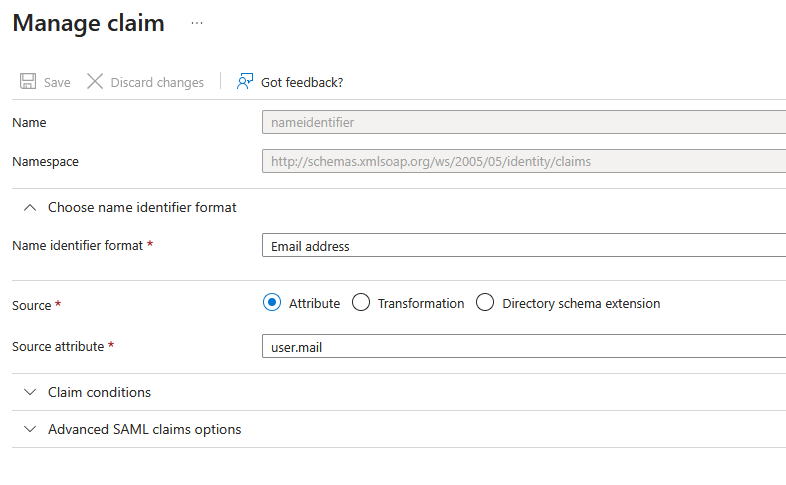
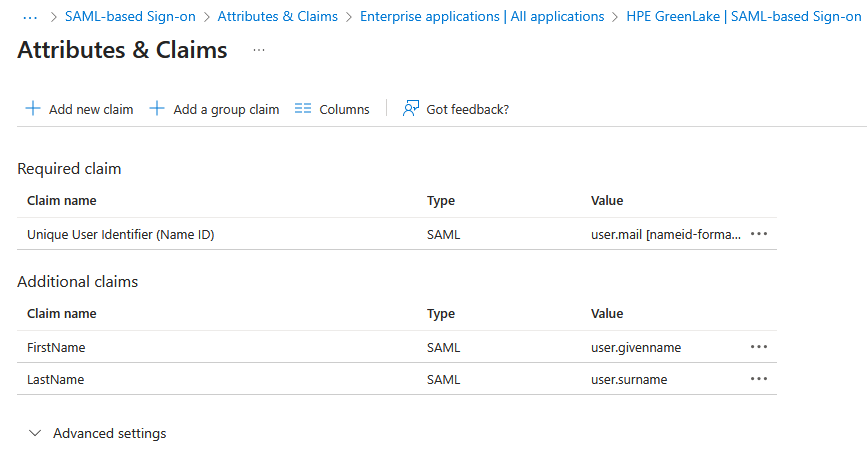
update blog

diff --git a/_posts/2025-11-07-Configuring-SAML-SSO-with-HPE-GreenLake-and-Passwordless-Authentication-for-HPECOMCmdlets.md b/_posts/2025-11-07-Configuring-SAML-SSO-with-HPE-GreenLake-and-Passwordless-Authentication-for-HPECOMCmdlets.md
@@ -287,27 +287,47 @@ With the security group created, you can now proceed to register the HPE GreenLa
 
     [![]( {{ site.baseurl }}/assets/images/SAML-SSO/SAML-SSO-14.png)]( {{ site.baseurl }}/assets/images/SAML-SSO/SAML-SSO-14.png){:class="img-100pct"}{: data-lightbox="gallery"} 
 
-- Modify **Unique User Identifier (Name ID)**. In the Source attribute dropdown, select **Email** (this maps to the user's user.mail attribute from Entra ID).
+    > **Important**: Entra ID creates default SAML claims when you add a new enterprise application. Before configuring the required attributes, you must **remove all default claims** except for the **Unique User Identifier (Name ID)**. These typically include claims with URIs like `http://schemas.xmlsoap.org/ws/2005/05/identity/claims/givenname`, `emailaddress`, `name`, etc. Click the **...** menu next to each unwanted claim and select **Delete** to remove them.
+    >
+    >{: .small-space}
+    >
+    > [![]( {{ site.baseurl }}/assets/images/SAML-SSO/SAML-SSO-14a.png)]( {{ site.baseurl }}/assets/images/SAML-SSO/SAML-SSO-14a.png){:class="img-100pct"}{: data-lightbox="gallery"} 
 
-    [![]( {{ site.baseurl }}/assets/images/SAML-SSO/SAML-SSO-15.png)]( {{ site.baseurl }}/assets/images/SAML-SSO/SAML-SSO-15.png){:class="img-600"}{: data-lightbox="gallery"} 
+   For the HPE GreenLake integration, the following SAML attributes must be defined:
 
-- Modify **http://schemas.xmlsoap.org/ws/2005/05/identity/claims/givenname** and set the source attribute to **user.givenname**
+    | Name | Value |
+    |------|-------|
+    | **Unique User Identifier (Name ID)** | `user.email` |
+    | **FirstName** | `user.firstName` |
+    | **LastName** | `user.lastName` |
+    | **hpe_ccs_attribute** | See configuration below |
 
-    [![]( {{ site.baseurl }}/assets/images/SAML-SSO/SAML-SSO-16.png)]( {{ site.baseurl }}/assets/images/SAML-SSO/SAML-SSO-16.png){:class="img-600"}{: data-lightbox="gallery"} 
+    > **Important**: Attribute names (FirstName, LastName, hpe_ccs_attribute) are case-sensitive and must match exactly as shown. The **Unique User Identifier (Name ID)** should already be configured with `user.email` by default - verify this setting but do not modify it.
 
-- Modify **http://schemas.xmlsoap.org/ws/2005/05/identity/claims/surname** and set the source attribute to **user.surname**
+    These SAML attributes define how user identity information is transmitted from Entra ID to HPE GreenLake during authentication:
 
-    [![]( {{ site.baseurl }}/assets/images/SAML-SSO/SAML-SSO-17.png)]( {{ site.baseurl }}/assets/images/SAML-SSO/SAML-SSO-17.png){:class="img-600"}{: data-lightbox="gallery"} 
+    - **Unique User Identifier (Name ID)**: Maps the user's email address to the SAML NameID, serving as the primary identifier for authentication
+    - **FirstName**: Provides the user's given name for profile information
+    - **LastName**: Provides the user's family name for profile information
+    - **hpe_ccs_attribute**: (Optional) Enables role-based access control when configured
 
-- Add a claim named **FirstName** (careful it's case sensitive) with the attribute **user.givenname** then click **Save** 
+-  Click on the **Unique User Identifier (Name ID)** claim. Verify that **Source attribute** is set to `user.mail`. If it shows a different value, update it to `user.mail` and click **Save**.
 
-    [![]( {{ site.baseurl }}/assets/images/SAML-SSO/SAML-SSO-18.png)]( {{ site.baseurl }}/assets/images/SAML-SSO/SAML-SSO-18.png){:class="img-600"}{: data-lightbox="gallery"} 
+    [![]( {{ site.baseurl }}/assets/images/SAML-SSO/SAML-SSO-15.png)]( {{ site.baseurl }}/assets/images/SAML-SSO/SAML-SSO-15.png){:class="img-600"}{: data-lightbox="gallery"}
 
-- Add a claim named **LastName** (careful it's case sensitive) with the attribute **user.surname**
+-  Add a claim named **FirstName** (case-sensitive) with **Source attribute** set to `user.givenname`, then click **Save**
 
-    [![]( {{ site.baseurl }}/assets/images/SAML-SSO/SAML-SSO-19.png)]( {{ site.baseurl }}/assets/images/SAML-SSO/SAML-SSO-19.png){:class="img-600"}{: data-lightbox="gallery"} 
+     [![]( {{ site.baseurl }}/assets/images/SAML-SSO/SAML-SSO-18.png)]( {{ site.baseurl }}/assets/images/SAML-SSO/SAML-SSO-18.png){:class="img-600"}{: data-lightbox="gallery"}
 
-    > **Note**: These SAML claims define how user identity information is transmitted from Entra ID to HPE GreenLake during authentication. Proper configuration ensures users are correctly identified and authorized when accessing the platform.
+-  Add a claim named **LastName** (case-sensitive) with **Source attribute** set to `user.surname`, then click **Save**
+
+     [![]( {{ site.baseurl }}/assets/images/SAML-SSO/SAML-SSO-19.png)]( {{ site.baseurl }}/assets/images/SAML-SSO/SAML-SSO-19.png){:class="img-600"}{: data-lightbox="gallery"}
+
+    > **Verification**: At this point, your **Attributes & Claims** section should contain only the **Unique User Identifier (Name ID)**, **FirstName**, and **LastName** claims. If you see any other default claims (such as those with `http://schemas.xmlsoap.org/` URIs), delete them now before proceeding.
+    >
+    >{: .small-space}
+    >
+    > [![]( {{ site.baseurl }}/assets/images/SAML-SSO/SAML-SSO-15.png)]( {{ site.baseurl }}/assets/images/SAML-SSO/SAML-SSO-15.png){:class="img-700"}{: data-lightbox="gallery"}
 
 -  <a id="hpe_ccs_settings"></a>Add a claim named **hpe_ccs_attribute** (case-sensitive). This attribute enables role-based access control (RBAC) by mapping your Entra ID group to specific HPE GreenLake roles and permissions. 
 
@@ -316,95 +336,97 @@ With the security group created, you can now proceed to register the HPE GreenLa
     Configure the claim with the following settings:
     
     - **Name**: `hpe_ccs_attribute`
-    - **User type**: `Any`
-    - **Scoped Groups**: Select the security group created earlier (i.e. *HPE GreenLake*)
-    - **Source**: `Attribute`
-    - **Value**: Enter your constructed attribute value (see below)
+    - In the **Claim conditions** section, enter:
+       - **User type**: `Any`
+       - **Scoped Groups**: Select the security group created earlier (i.e. *HPE GreenLake*)
+       - **Source**: `Attribute`
+       - **Value**: Enter your constructed attribute value (see below)
 
-        The `hpe_ccs_attribute` value follows a specific format that defines workspace access, application permissions, and user roles. For detailed instructions on constructing this attribute value, including the required syntax and examples, refer to [HPE GreenLake cloud SAML attribute for session-based authentication](https://support.hpe.com/hpesc/public/docDisplay?docId=a00120892en_us&page=GUID-237A2D36-D5D3-4514-915F-42B2ACDF825C.html#ariaid-title1).
+    The `hpe_ccs_attribute` value follows a specific format that defines workspace access, application permissions, and user roles. For detailed instructions on constructing this attribute value, including the required syntax and examples, refer to [HPE GreenLake cloud SAML attribute for session-based authentication](https://support.hpe.com/hpesc/public/docDisplay?docId=a00120892en_us&page=GUID-237A2D36-D5D3-4514-915F-42B2ACDF825C.html#ariaid-title1).
 
-        [![]( {{ site.baseurl }}/assets/images/SAML-SSO/SAML-SSO-20.png)]( {{ site.baseurl }}/assets/images/SAML-SSO/SAML-SSO-20.png){:class="img-100pct"}{: data-lightbox="gallery"}
+    [![]( {{ site.baseurl }}/assets/images/SAML-SSO/SAML-SSO-20.png)]( {{ site.baseurl }}/assets/images/SAML-SSO/SAML-SSO-20.png){:class="img-100pct"}{: data-lightbox="gallery"}
 
-        The `hpe_ccs_attribute` value follows this format:
+    The `hpe_ccs_attribute` value follows this format:
 
-        ```yaml
-        version_1#<workspace_id>:<app_id_1>:<role_1>:ALL_SCOPES:<app_id_2>:<role_2>:ALL_SCOPES
-        ```
+    ```yaml
+    version_1#<workspace_id>:<app_id_1>:<role_1>:ALL_SCOPES:<app_id_2>:<role_2>:ALL_SCOPES
+    ```
 
-        - **Example 1** (single workspace, single service):
+    - **Example 1** (single workspace, single service):
 
-            ```yaml
-            version_1#40aab0a48e5811f0bc31ca04dee87a18:00000000-0000-0000-0000-000000000000:Workspace Observer:ALL_SCOPES
-            ```
+      ```yaml
+      version_1#40aab0a48e5811f0bc31ca04dee87a18:00000000-0000-0000-0000-000000000000:Workspace Observer:ALL_SCOPES
+      ```
 
-            This example grants:
-            - Observer access to the HPE GreenLake workspace
+      This example grants:
+      - Observer access to the HPE GreenLake workspace
 
-        - **Example2** (single workspace, two services: HPE GreenLake and COM):
+    - **Example2** (single workspace, two services: HPE GreenLake and COM):
 
-            ```yaml 
-            version_1#40aab0a48e5811f0bc31ca04dee87a18:00000000-0000-0000-0000-000000000000:Workspace Administrator:ALL_SCOPES:b394fa01-8858-4d73-8818-eadaf12eaf37:Compute Ops Management administrator:ALL_SCOPES
-            ```
+      ```yaml 
+      version_1#40aab0a48e5811f0bc31ca04dee87a18:00000000-0000-0000-0000-000000000000:Workspace Administrator:ALL_SCOPES:b394fa01-8858-4d73-8818-eadaf12eaf37:Compute Ops Management administrator:ALL_SCOPES
+      ```
 
-            This example grants:
-            - Administrator access to the HPE GreenLake workspace
-            - Administrator access to Compute Ops Management 
+      This example grants:
+      - Administrator access to the HPE GreenLake workspace
+      - Administrator access to Compute Ops Management 
 
-        - **Example3** (two workspaces, two services: HPE GreenLake and COM):
+    - **Example3** (two workspaces, two services: HPE GreenLake and COM):
 
-            ```yaml 
-            version_1#248aa396805c11ed88e216588ab64ce9:00000000-0000-0000-0000-000000000000:Workspace Observer:ALL_SCOPES:b394fa01-8858-4d73-8818-eadaf12eaf37:Compute Ops Management administrator:ALL_SCOPES#34652ff0317711ec9bc096872580fd6d:00000000-0000-0000-0000-000000000000:Workspace Observer:ALL_SCOPES:b394fa01-8858-4d73-8818-eadaf12eaf37:Compute Ops Management administrator:ALL_SCOPES
-            ```
+      ```yaml 
+      version_1#248aa396805c11ed88e216588ab64ce9:00000000-0000-0000-0000-000000000000:Workspace Observer:ALL_SCOPES:b394fa01-8858-4d73-8818-eadaf12eaf37:Compute Ops Management administrator:ALL_SCOPES#34652ff0317711ec9bc096872580fd6d:00000000-0000-0000-0000-000000000000:Workspace Observer:ALL_SCOPES:b394fa01-8858-4d73-8818-eadaf12eaf37:Compute Ops Management administrator:ALL_SCOPES
+      ```
 
-            This example grants:
-            - Observer access to the HPE GreenLake workspaces
-            - Administrator access to Compute Ops Management 
+      This example grants:
+      - Observer access to the HPE GreenLake workspaces
+      - Administrator access to Compute Ops Management 
 
-        To construct the `hpe_ccs_attribute` value, you need to gather three key pieces of information from your HPE GreenLake workspace:
-        1. **Workspace ID**: The unique identifier for your HPE GreenLake workspace
-        2. **Service ID**: The unique identifier for each service you want to grant access to
-        3. **Role**: The permission level to assign for each service
+      To construct the `hpe_ccs_attribute` value, you need to gather three key pieces of information from your HPE GreenLake workspace:
+      1. **Workspace ID**: The unique identifier for your HPE GreenLake workspace
+      2. **Service ID**: The unique identifier for each service you want to grant access to
+      3. **Role**: The permission level to assign for each service
 
-        **How to Find These Values:**
+      **How to Find These Values:**
 
-        1. **Locate Your Workspace ID**:
-            - Log in to HPE GreenLake at [https://common.cloud.hpe.com/](https://common.cloud.hpe.com/)
-            - Navigate to **Manage Workspace**
-            - The Workspace ID is displayed on the workspace card.
+      1. **Locate Your Workspace ID**:
+        - Log in to HPE GreenLake at [https://common.cloud.hpe.com/](https://common.cloud.hpe.com/)
+        - Navigate to **Manage Workspace**
+        - The Workspace ID is displayed on the workspace card.
 
-                [![]( {{ site.baseurl }}/assets/images/SAML-SSO/SAML-SSO-20a.png)]( {{ site.baseurl }}/assets/images/SAML-SSO/SAML-SSO-20a.png){:class="img-900"}{: data-lightbox="gallery"}
+             [![]( {{ site.baseurl }}/assets/images/SAML-SSO/SAML-SSO-20a.png)]( {{ site.baseurl }}/assets/images/SAML-SSO/SAML-SSO-20a.png){:class="img-900"}{: data-lightbox="gallery"}
 
-        2. **Find Service IDs**:
-            - Navigate to **Services** → **Catalog** in HPE GreenLake
-            - Select the service you want to grant access to
-            - In the **Details** section, locate and copy the **Service ID**
+      2. **Find Service IDs**:
+          - Navigate to **Services** → **Catalog** in HPE GreenLake
+          - Select the service you want to grant access to
+          - In the **Details** section, locate and copy the **Service ID**
 
-                [![]( {{ site.baseurl }}/assets/images/SAML-SSO/SAML-SSO-20b.png)]( {{ site.baseurl }}/assets/images/SAML-SSO/SAML-SSO-20b.png){:class="img-900"}{: data-lightbox="gallery"}    
-            
-            **Common Application IDs:**
-            - HPE GreenLake Platform: `00000000-0000-0000-0000-000000000000`
-            - Compute Ops Management: `b394fa01-8858-4d73-8818-eadaf12eaf37`
+            [![]( {{ site.baseurl }}/assets/images/SAML-SSO/SAML-SSO-20b.png)]( {{ site.baseurl }}/assets/images/SAML-SSO/SAML-SSO-20b.png){:class="img-900"}{: data-lightbox="gallery"}    
+          
+          **Common Application IDs:**
+          - HPE GreenLake Platform: `00000000-0000-0000-0000-000000000000`
+          - Compute Ops Management: `b394fa01-8858-4d73-8818-eadaf12eaf37`
+    
+      3. **Identify Available Roles**:
+          - Navigate to **Manage Workspace** → **Identity & access management** → **Roles & permissions**
+          - Review the available roles for each application
+     
+            [![]( {{ site.baseurl }}/assets/images/SAML-SSO/SAML-SSO-20c.png)]( {{ site.baseurl }}/assets/images/SAML-SSO/SAML-SSO-20c.png){:class="img-900"}{: data-lightbox="gallery"}    
+     
+            > **Note**: Role names are case-sensitive and must match exactly as displayed in the HPE GreenLake console. Always verify role names before adding them to your SAML attribute configuration.
+            >
+            >{: .small-space}
+            >
+            > **Common Roles:**
+            > - `Workspace Administrator`: Full administrative access to the workspace
+            > - `Workspace Observer`: Read-only access to workspace resources
+            > - `Compute Ops Management administrator`: Full access to COM features
+            > - `Compute Ops Management viewer`: Read-only access to COM features
 
-        3. **Identify Available Roles**:
-            - Navigate to **Manage Workspace** → **Identity & access management** → **Roles & permissions**
-            - Review the available roles for each application
+- Once completed, your final claims configuration should include only:
 
-                [![]( {{ site.baseurl }}/assets/images/SAML-SSO/SAML-SSO-20c.png)]( {{ site.baseurl }}/assets/images/SAML-SSO/SAML-SSO-20c.png){:class="img-900"}{: data-lightbox="gallery"}    
+    [![]( {{ site.baseurl }}/assets/images/SAML-SSO/SAML-SSO-21.png)]( {{ site.baseurl }}/assets/images/SAML-SSO/SAML-SSO-21.png){:class="img-700"}{: data-lightbox="gallery"}
 
-                > **Note**: Role names are case-sensitive and must match exactly as displayed in the HPE GreenLake console. Always verify role names before adding them to your SAML attribute configuration.
-
-            **Common Roles:**
-            - `Workspace Administrator`: Full administrative access to the workspace
-            - `Workspace Observer`: Read-only access to workspace resources
-            - `Compute Ops Management administrator`: Full access to COM features
-            - `Compute Ops Management viewer`: Read-only access to COM features
-
-
-- Remove any remaining default claims that were not explicitly configured above. Your final claims configuration should include only:
-
-    [![]( {{ site.baseurl }}/assets/images/SAML-SSO/SAML-SSO-21.png)]( {{ site.baseurl }}/assets/images/SAML-SSO/SAML-SSO-21.png){:class="img-600"}{: data-lightbox="gallery"}
-
-- The SAML SSO configuration is now complete. To proceed with the HPE GreenLake integration, you need to obtain the Federation Metadata. Navigate to the **SAML Certificates** tile and locate the **App Federation Metadata Url**. Click **Copy** to copy the metadata URL to your clipboard.
+- The SAML SSO configuration is now complete, you can close the **Attributes & Claims** page. To proceed with the HPE GreenLake integration, you need to obtain the Federation Metadata. Navigate to the **SAML Certificates** tile and locate the **App Federation Metadata Url**. Click **Copy** to copy the metadata URL to your clipboard.
 
     [![]( {{ site.baseurl }}/assets/images/SAML-SSO/SAML-SSO-21a.png)]( {{ site.baseurl }}/assets/images/SAML-SSO/SAML-SSO-21a.png){:class="img-100pct"}{: data-lightbox="gallery"}
 
